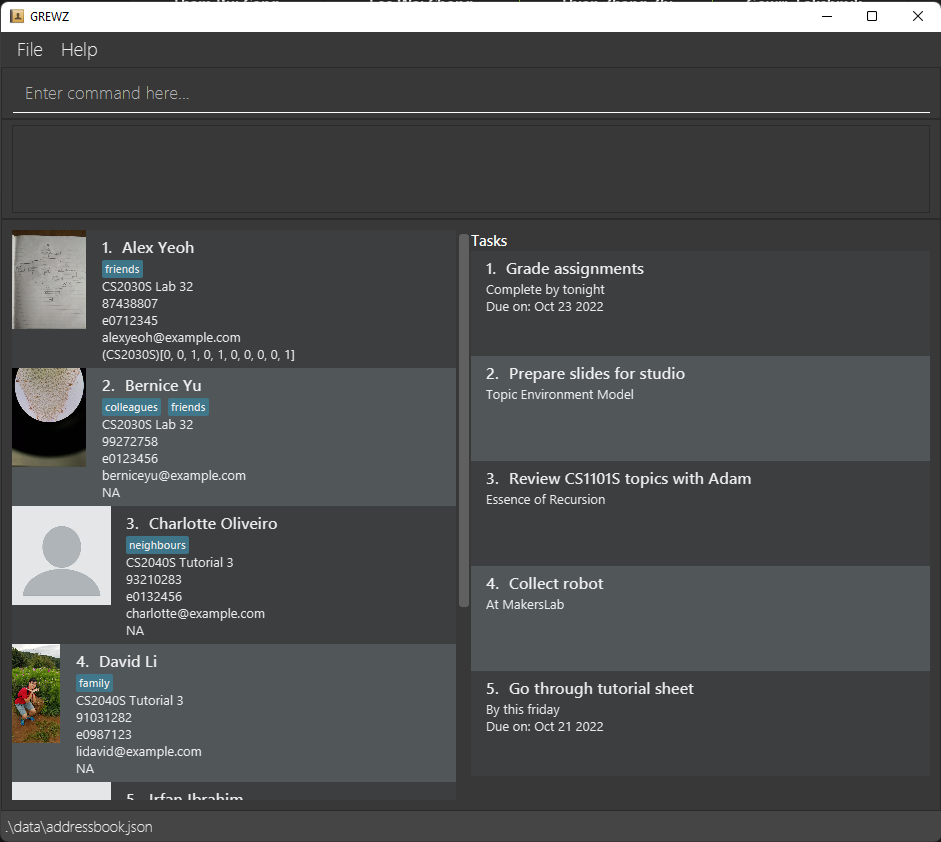
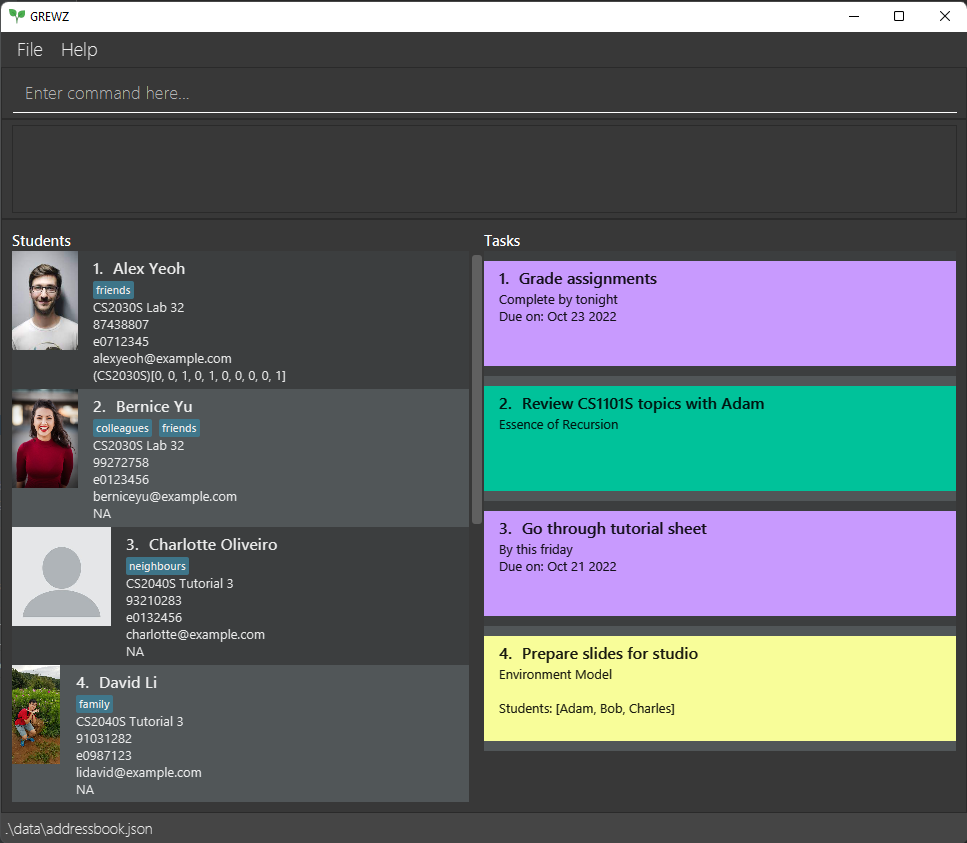
Update landing page

diff --git a/src/main/java/seedu/address/ui/UiManager.java b/src/main/java/seedu/address/ui/UiManager.java
@@ -20,7 +20,7 @@ public class UiManager implements Ui {
     public static final String ALERT_DIALOG_PANE_FIELD_ID = "alertDialogPane";
 
     private static final Logger logger = LogsCenter.getLogger(UiManager.class);
-    private static final String ICON_APPLICATION = "/images/address_book_32.png";
+    private static final String ICON_APPLICATION = "/images/plant.png";
 
     private Logic logic;
     private MainWindow mainWindow;

diff --git a/src/test/java/seedu/address/commons/util/AppUtilTest.java b/src/test/java/seedu/address/commons/util/AppUtilTest.java
@@ -9,7 +9,7 @@ public class AppUtilTest {
 
     @Test
     public void getImage_exitingImage() {
-        assertNotNull(AppUtil.getImage("/images/address_book_32.png"));
+        assertNotNull(AppUtil.getImage("/images/plant.png"));
     }
 
     @Test
